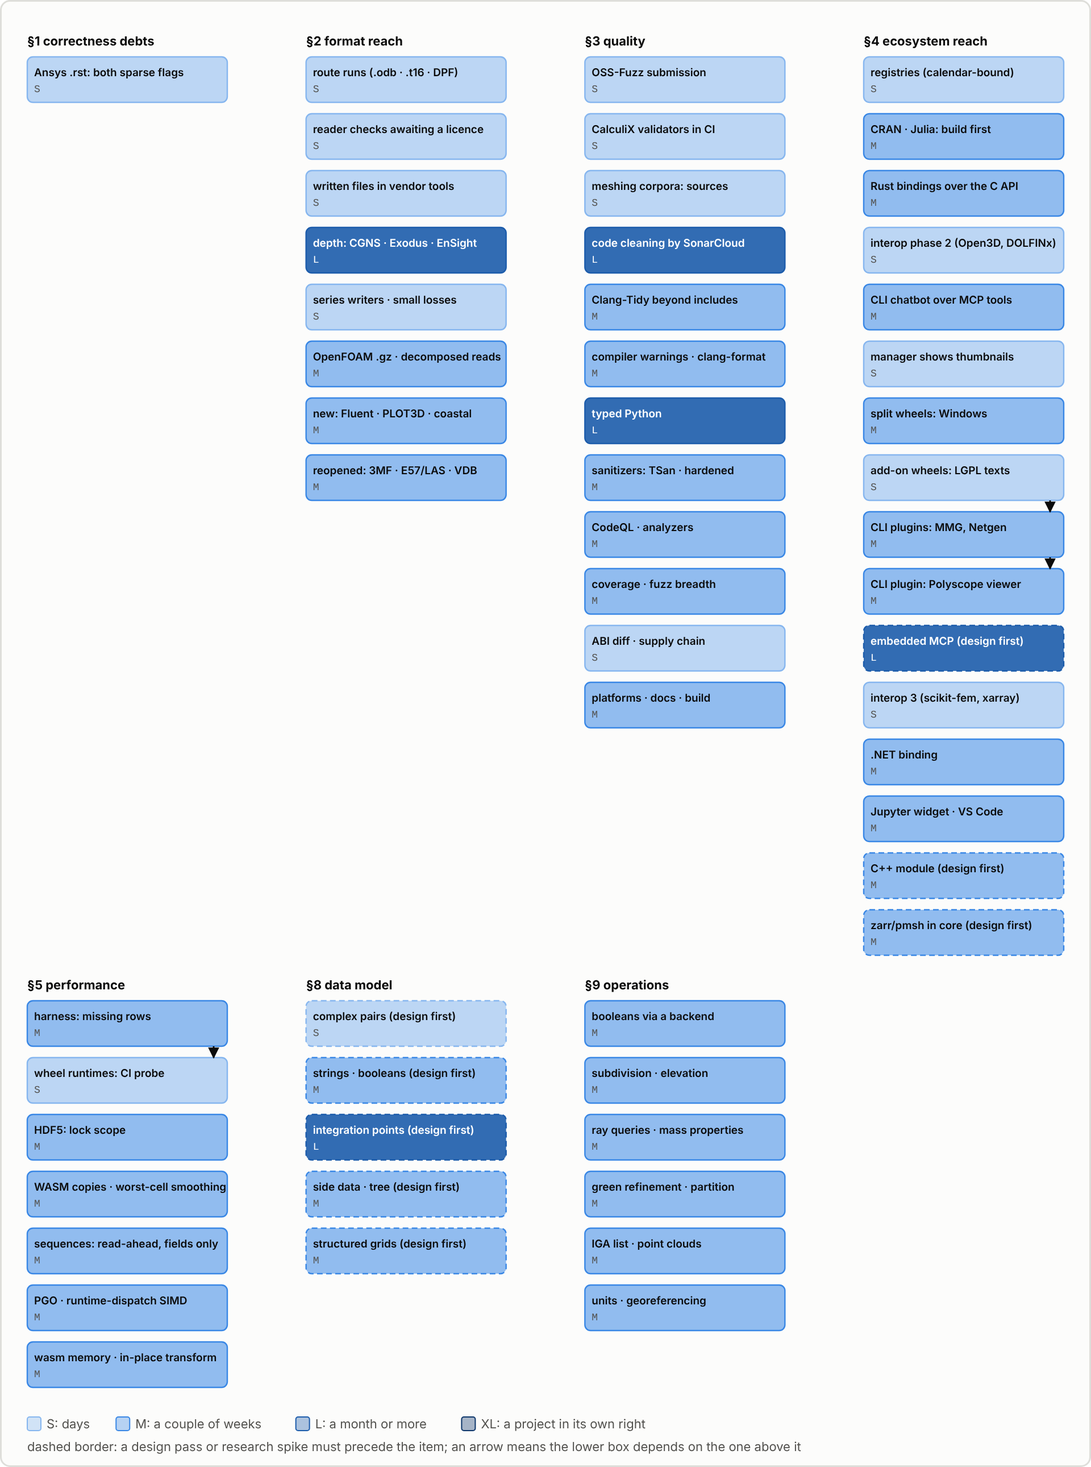
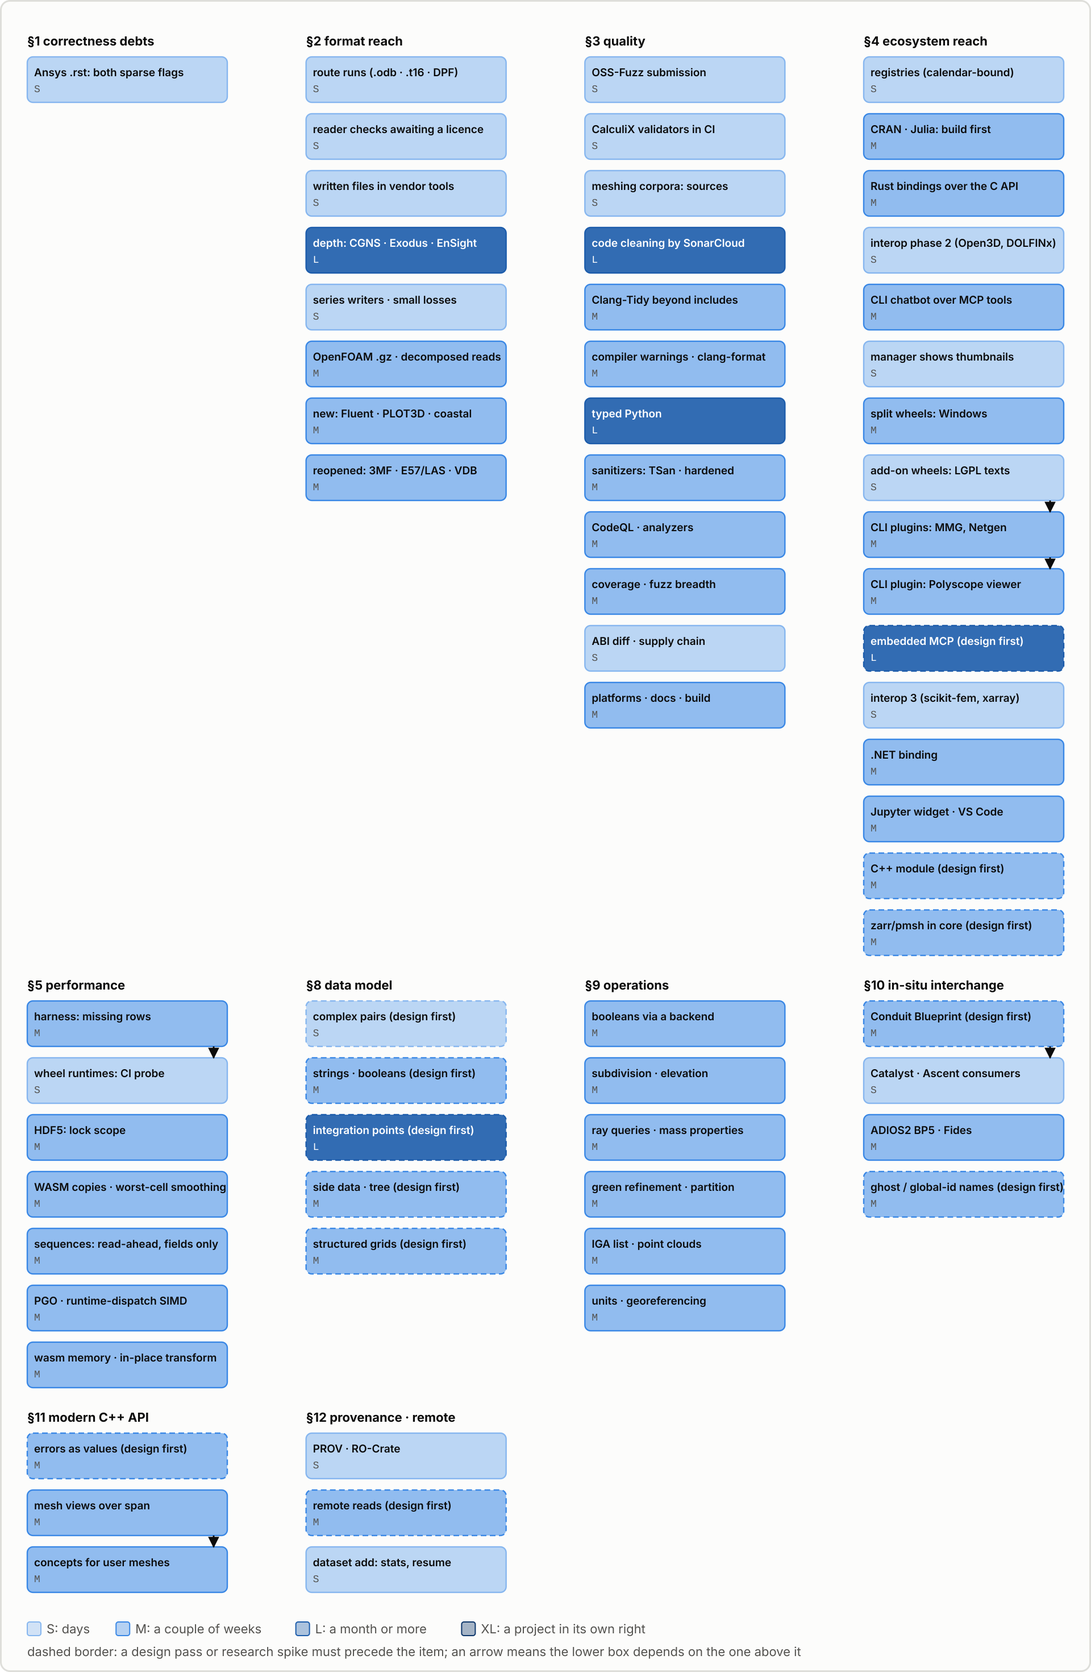
roadmap: append in-situ, modern C++ API and provenance tiers (10-12), items 3.18-3.19
From a proposed revision, reduced to what the tree and the file do not
already have; the map is regenerated.

Claude-Session: https://claude.ai/code/session_01DnyVZC1z4s39zR3yhiaNMa

diff --git a/doc/diagrams/figures/flows.py b/doc/diagrams/figures/flows.py
@@ -1109,6 +1109,34 @@ def roadmap_map():
             ],
             [],
         ),
+        (
+            "§10 in-situ interchange",
+            [
+                ("Conduit Blueprint (design first)", "M"),
+                ("Catalyst · Ascent consumers", "S"),
+                ("ADIOS2 BP5 · Fides", "M"),
+                ("ghost / global-id names (design first)", "M"),
+            ],
+            [(0, 1)],
+        ),
+        (
+            "§11 modern C++ API",
+            [
+                ("errors as values (design first)", "M"),
+                ("mesh views over span", "M"),
+                ("concepts for user meshes", "M"),
+            ],
+            [(1, 2)],
+        ),
+        (
+            "§12 provenance · remote",
+            [
+                ("PROV · RO-Crate", "S"),
+                ("remote reads (design first)", "M"),
+                ("dataset add: stats, resume", "S"),
+            ],
+            [],
+        ),
     ]
     per_row = 4
     col_w = 176

diff --git a/doc/roadmap.md b/doc/roadmap.md
@@ -15,6 +15,8 @@ Effort key: **S** = days, **M** = a couple of weeks, **L** = a month or more, **
 - **An item estimated from a doc, a `.d.ts` or a changelog alone says so** ("verify first") and names its probe; the code has repeatedly been more or less capable than its description.
 - **[Non-goals](#non-goals-and-decisions-taken) record decisions already taken**, with their reasons, so they are not re-proposed as gaps.
 - **Every open item is written to be picked up without a planning pass** (November 2026). It states what exists today with the place in the code that proves the gap, what to reuse, ordered steps numbered so one can be closed alone, tests and fixtures, and a *done when* probe; a design-pass item lists the decisions to take and the option the code favours. Line numbers are those of `master` in November 2026 and drift: each is given beside a function, option or message name, which is what to search for. A claim an item could not check in the code says *verify first*.
+- **A priority is optional and only for sections that need to be ordered against each other** (§10 to §12 do not use one; their order is the sequencing's). Where an item carries one: **P0** blocks correctness or a release, **P1** the next release, **P2** planned, **P3** opportunistic or a spike. It never replaces the effort letter.
+- **GPL and AGPL implementations (Gmsh's sources, ScanRuler) inform an item only through their documented behaviour**; no code is read from them or ported ([non-goals](#non-goals-and-decisions-taken)).
 
 ### Landing checklists {#landing-checklists}
 
@@ -580,6 +582,24 @@ Publishing already uses OIDC for PyPI and (with a token fallback, `wasm.yml` lin
 - **3.17.3 Compile time.** `-ftime-trace` with ClangBuildAnalyzer on a full build; report the ten slowest translation units (`src/cpp/cli/main.cpp`, `bindings/python/_core.cpp` at 10,482 lines, `bindings/c/c_api.cpp`, `bindings/wasm/js_bindings.cpp` at 11,083 lines) and headers in [benchmarks](./benchmarks.md). Then, by what it shows: split `_core.cpp` and `js_bindings.cpp` by area into several sources (they are globbed, so no CMake change), precompiled headers for `meshioplusplus_tests`, and a `CMAKE_UNITY_BUILD=ON` leg as a check that the amalgamation's unique-name rule holds for the sources too. **M**
 - **3.17.4 Hardening the released binaries.** For `cli.yml` and `wheels.yml` builds only, through a `MESHIOPLUSPLUS_HARDENING` option applied `PRIVATE`: `-D_FORTIFY_SOURCE=3`, `-fstack-protector-strong`, `-Wl,-z,relro,-z,now`, `-fcf-protection=full` (x86-64) or `-mbranch-protection=standard` (arm64), `/guard:cf` and `/Qspectre` on MSVC. Measure on the [instruction-count gate](./benchmarks.md#instruction-count-gate) first and record the cost. **S–M**
 
+### 3.18 Compatibility with upstream meshio's own tests
+
+*Verify first.* Nothing in `tests/python` runs upstream meshio's suite against meshio++, so the claim of being a drop-in for `import meshio` rests on meshio++'s own tests. **S–M**
+
+- **Steps.**
+  - **3.18.1 A shim run.** A scheduled job in `ci.yml` (weekly, advisory): install the last upstream `meshio` sdist's `tests/` into a scratch directory, alias `import meshio` to `meshioplusplus` through a `conftest.py` that sets `sys.modules["meshio"]`, run it, and write the failures to a committed `tests/python/upstream_meshio_known.txt`.
+  - **3.18.2 Classify each failure** as a bug here (fix it, or add it to §1 if it loses data), a documented divergence (a line on the format page and in the [README](https://github.com/loumalouomega/meshioplusplus/blob/main/README.md)'s comparison), or an upstream defect.
+- **Done when.** The job passes with the known-failures file as its only allowance, and every entry in it cites a page.
+
+### 3.19 Index and identifier widths
+
+*Verify first.* The VTU `UInt64` header type is tested (`tests/python/meshes/vtu/01_raw_binary_int64.vtu`), but no test builds a mesh with a node or cell tag above 2³¹ and writes it to every format that can hold one. **S–M**
+
+- **Steps.**
+  - **3.19.1 An audit.** Build with `-Wshorten-64-to-32` on Clang (an advisory leg, as 3.6.2) and list the narrowing conversions on index, count and tag paths of `src/cpp/src/formats/`; each is fixed, or a check that throws `ReadError`/`WriteError` naming the format and the value.
+  - **3.19.2 A table of widths** in [formats](./formats.md): for each format, the widest node and cell id it stores (MSH 4.1's sizes, Exodus' `int64` mode, CGNS' `cgsize_t`, VTKHDF, VTU's header types), generated from a test that writes an id above 2³¹ to each and records the outcome as the conformance matrix does.
+- **Done when.** A mesh with a tag of 2³¹ + 5 either round-trips or fails with the format's name, for every registered writer.
+
 ---
 
 ## 4. Ecosystem reach {#ecosystem-reach}
@@ -1014,6 +1034,92 @@ Only if 2.4.3 or 2.4.6 lands, since nothing read today is georeferenced. `field_
 
 ---
 
+## 10. In-situ and coupling interchange {#in-situ-interchange}
+
+*Admission: a data description a simulation or a coupling library hands over in memory, which meshio++ can convert to and from without reading a file. Added in November 2026 from a proposed revision of this file; every item here was checked against the tree for a prior implementation (none found) and is marked **verify first** for the library's own current API. MPI inside the library stays a [non-goal](#non-goals-and-decisions-taken): these adapters take the data a rank holds, as [`partition`](./partition.md)'s ghost layers already do.*
+
+### 10.1 A Conduit Mesh Blueprint adapter {#conduit-blueprint}
+
+Conduit's Mesh Blueprint† is the description Catalyst 2 and Ascent receive and ParaView's Catalyst implementation reads a subset of; a simulation that already holds a `conduit::Node` could reach every meshio++ writer through it. **M, design pass first**
+
+- **State today.** No file or document names Conduit, Blueprint, Catalyst or Ascent. The in-memory interop layer is Python ([interop](./interop.md)); the core's uniform API is `mesh_api.hpp`.
+- **Decisions to take first.** (1) Where it lives: an optional, dynamically linked provider (the registry of `providers.hpp`, as OpenCASCADE and Netgen are), so the base wheel gains no dependency, or a Python-only `to_conduit`/`from_conduit` over `conduit`'s own Python module (days, and the first step). (2) Which topologies map: `unstructured` with `shape` `point`/`line`/`tri`/`quad`/`tet`/`hex`/`wedge`/`pyramid`/`polygonal`/`polyhedral`, `uniform`, `rectilinear` and `structured` expanded as 8.6 describes. (3) Fields: `vertex` and `element` association to point and cell data; `material_map` and `adjsets` stay unread.
+- **Steps.** 10.1.1 The Python bridge by [checklist F](#landing-checklists)'s step 4 pattern, as 4.3 does for Open3D: `to_conduit(mesh)` and `from_conduit(node)`, `_NOT_TOOLS` entries in the MCP parity guard, a gated test that calls `conduit.blueprint.mesh.verify`. 10.1.2 A native provider only if 10.1.1 shows a consumer that cannot use Python.
+- **Done when.** `conduit.blueprint.mesh.verify(node, info)` passes for a node built from every cell type of the registry's canonical mesh, and a round trip is exact. Sources: Conduit's Blueprint documentation†; no code is copied.
+
+### 10.2 Catalyst and Ascent as consumers {#catalyst-ascent}
+
+After 10.1. A Catalyst 2 pipeline script or an Ascent action receives a Blueprint node: meshio++ is a Python step in it that writes any registry format or applies a [pipeline](./pipeline.md). **S–M**
+
+- **Steps.** A `contrib/catalyst/` script in the shape of `contrib/ansys_dpf/` (a documented route, tested against a stand-in of the Conduit API as `tests/python/test_contrib_routes.py` does, and run once for real: record it under [recording a run](#awaiting-a-licensed-run)); a page in [vendor routes](./vendor_routes.md).
+- **Done when.** A ParaView Catalyst example's output channel is written as a `.vtkhdf` series and read back by [`read_sequence`](./sequences.md).
+
+### 10.3 ADIOS2 BP5 and Fides {#adios2-fides}
+
+*Verify first.* [`vtx`](./formats/vtx.md) reads DOLFINx's ADIOS2 `.bp`; whether it also reads the Fides schema that ParaView and VTK-m use, and whether a writer of either exists, is stated on that page and not checked here. **M**
+
+- **Steps.** Read the page; if only DOLFINx's VTX schema is covered, add Fides as a second schema in the same format (`schema=` read and write option) with the same `ADIOS2` build gate; test against ParaView's `ADIOS2VTXReader` and `vtkmFides`† as `tools/gen_vtx_reference.py` already drives the first.
+
+### 10.4 Ghost, owner and global-id conventions {#ghost-conventions}
+
+*Design pass.* `partition` writes halo layers and `pvtu` reads and writes them, Elmer and MFEM carry global ids, and the Nemesis item (2.3.8.2) will carry two more maps. Name the arrays once: `partition:ghost`, `partition:owner`, `global:node_id`, `global:cell_id`, and the rule for which operations preserve them. **M**
+
+- **Steps.** A page `doc/ghosts.md` (a decision record; link it from [partition](./partition.md) and [regions](./regions.md)); the readers and writers that already hold the data moved onto the names in the same change, with digests unchanged (`tools/bench_ops.sh --hash`); 2.3.8.1's helper takes them as its inputs.
+- **Done when.** A partition written by `partition`, read by `read_pvtu` and merged by 2.3.8.1 returns the serial mesh sorted by `global:cell_id`.
+
+## 11. A modern C++ API surface {#modern-cpp-api}
+
+*Admission: the installable C++ API ([C++ API](./cpp_api.md)) as a library user meets it, as opposed to its formats or operations. Each item here changes an installed header, so each is a pure addition or an [ABI](./abi.md) bump named in its steps. Link 4.14 (the module) and 3.13 (the ABI diff) rather than repeating them.*
+
+### 11.1 Errors as values {#errors-as-values}
+
+Every reader throws `ReadError` (`exceptions.hpp`) and the C API turns it into a status; a C++ caller who wants to branch on "this file is not this format" pays for an exception per probe. **M, design pass first**
+
+- **Decisions to take first.** (1) The type: `std::expected<Mesh, Error>` where the compiler's library has it (C++23) and a small header-only twin otherwise, against a `Result<T>` of the project's own that needs no feature test. (2) `Error` carries the format name, the byte offset or line where the reader knows one (it mostly does not: say so on the page and fill it where `detail/parse_guard.hpp` and the line readers do) and the C API's status code, one to one. (3) Whether `try_read`/`try_write` are new entry points beside the throwing ones (a pure addition, recommended) or replace them (an ABI bump).
+- **Steps.** `try_read`, `try_read_as`, `try_write` and `try_sniff` as thin wrappers over the registry (`registry_read` and the `catch` converting `ReadError`, `WriteError`, `Unsupported`); a test that every registered reader's refusal of a junk file arrives as an `Error` naming its format; an ABI review row.
+- **Done when.** `try_read` on 64 random bytes returns an `Error` for each registered format with no exception escaping, under ASan and UBSan.
+
+### 11.2 Views, not copies {#mesh-views}
+
+*Verify first* how the uniform API hands back arrays today (`mesh_api.hpp`, `ndarray.hpp`): a caller who wants the points of a mesh to feed a solver copies them or reaches for a backend member. **M**
+
+- **Steps.** A non-owning `MeshView` (points as `std::span<const double>` with stride 3, one `CellBlockView` per block with its `CellType` and a two-dimensional view of the connectivity as `std::mdspan` where available and a hand-written `Strided2D` otherwise), built from any backend through `AssignPoints`' read-side twin and `CellView`; lifetime rules as the C API's borrowed getters (valid until the mesh is mutated); the single header carries it.
+- **Reuse.** The C API's getters already borrow; the WASM and Python bindings already expose the same buffers (`np_conversions.hpp`): the view is their native shape.
+- **Done when.** A solver-shaped loop (a `std::span` pass over `points` and `cells`) runs with no copy and no backend member, on MESHIO, NATIVE and KRATOS.
+
+### 11.3 Concepts for user meshes {#mesh-concepts}
+
+After 11.2. A `MeshLike` concept (what `registry_write` needs from a type) so an application's own mesh class can be written without being converted first. **M**
+
+- **Steps.** `template <MeshLike M> void write(const std::string&, const M&)` building a `MeshView`, so no format code changes; a test with a deliberately minimal user type; the page records which backends satisfy it.
+
+## 12. Provenance, remote data and dataset interop {#provenance-remote}
+
+*Admission: where a mesh and its data come from and where they are kept, beyond the formats themselves. Added in November 2026 from the same proposed revision; the parts that already exist (fsspec URLs in Python, dataset manifests, the PyG `Dataset`, ghost layers, Zarr v3 in Python) are not re-listed.*
+
+### 12.1 Provenance as W3C PROV and RO-Crate {#prov-rocrate}
+
+[Provenance](./provenance.md) records what produced a mesh in its own schema. A reviewer or a data repository wants the standard ones. **S**
+
+- **Steps.** `provenance_to_prov(mesh)` (PROV-JSON†: an entity per input file with its digest, an activity per recorded operation with its options, the software agent with the version) and `write_ro_crate(directory, mesh, outputs)` (`ro-crate-metadata.json`† listing the files with their formats); both Python-only, MCP exemptions recorded in `_NOT_TOOLS` unless they are expressible through file paths (the crate writer is: add it as a tool).
+- **Done when.** The PROV document validates against PROV-JSON's schema†, and the crate against `rocrate-validator`†.
+
+### 12.2 Remote reads beyond Python {#remote-reads}
+
+*Verify first.* [Formats](./formats.md#remote-files) reads URLs through the optional `fsspec` in Python only; the native CLI and WASM do not (the [CLI page](./cli.md) says so). **M, design pass first**
+
+- **Decisions to take first.** Whether the native CLI gains an HTTP(S) range reader with a vendored client (a dependency and a supply-chain item for 3.14.6's SBOM), or stays Python-only by decision and the page says why; for HDF5 formats, the ROS3 virtual file driver† where the bundled HDF5 is built with it.
+- **Done when.** The decision is a line under [non-goals](#non-goals-and-decisions-taken) or the item is split into steps.
+
+### 12.3 Statistics and resumption for `dataset add` {#dataset-build}
+
+[`meshioplusplus dataset add`](./datasets.md) registers files by glob into a manifest. *Verify first* whether an entry records per-file statistics (cells, bounds, field ranges) and whether re-running skips files already registered. **S**
+
+- **Steps.** A `--stats` option on `add` filling each entry from `read_metadata` (no full read; `_cli/_dataset.py`), and `--resume`, which skips an entry whose file digest is already in the manifest.
+- **Done when.** Interrupting and re-running a 100-file `add --resume` reads no file twice.
+
+---
+
 ## Non-goals and decisions taken
 
 Recorded so they are not re-proposed as gaps. A decision is reopened when what it rested on has changed, and then it is narrowed here, with the date and the number of the item that took it up; the November 2026 review read each against what has shipped since. It reopened five (surface booleans through a backend, 9.1; decomposed files read without MPI, 2.3.8; the `zarr` and `pmsh` stores in the core, 4.15; an in-place `transform`, 5.14; vector kernels behind runtime dispatch, 5.15) and four formats of *Considered, not queued* (2.4.5 to 2.4.8), and left the rest as they stand: the reasons recorded for the native constrained tetrahedralisation, NURBS as an entity kind in `Mesh`, Kokkos device execution, link-time optimisation by default (though a profile was never tried: 5.12), solver-coupled learning, contact mechanics, the copyleft codes and the CAD modeller have not moved.
@@ -1034,7 +1140,7 @@ Recorded so they are not re-proposed as gaps. A decision is reopened when what i
   - **`szplt`** does not write polygon and polyhedral zones: TecIO 2018.3, the newest source available, refuses them in an SZL file, so the reader refuses them by name too and the face-based zones stay with the `.plt` and ASCII readers. Partitioned output is for tetrahedron and brick zones of a static file only (TecIO's own limit), and a series is written whole.
   - **`vtx`**: DOLFINx and ParaView read one cell type per file, so a file of several cell types or parts is meshio++'s own extension of the layout.
 - **Generators the primitives leave out** — recorded when roadmap §3.1 closed (October 2026), with the [parametric primitives](./primitives.md#not-generated): generators driven by a user callback (no callback crosses the flat ABI; numpy users build `Mesh(points, cells)` directly, and [`isosurface`](./isosurface.md) on a `grid` covers implicit shapes); scanned or modelled assets (the bunny, the teapot, the bracket fixture — data rather than parameters, each under its own licence); and CSG combinations, under the volume-meshing non-goal below (surface booleans were reopened as a spike and kept out on its measurements, [findings](./spikes.md#surface-booleans-formerly-roadmap-7-8)) — two-body interface and contact fixtures are primitives placed with `transform` and joined with `merge`.
-- **MPI in the library** — none planned ([C++ API](./cpp_api.md)); `partition`'s ghost layers produce the halo an MPI assembly in the owning application needs. ParMmg, MMG's MPI layer, is excluded with it. Narrowed in November 2026: reading the files a parallel run left, one per rank, into one mesh needs no MPI, as the OpenFOAM and `pvtu` readers show, and is queued for the formats that lack it as 2.3.8.
+- **MPI in the library** — none planned ([C++ API](./cpp_api.md)); `partition`'s ghost layers produce the halo an MPI assembly in the owning application needs. ParMmg, MMG's MPI layer, is excluded with it. Narrowed in November 2026: reading the files a parallel run left, one per rank, into one mesh needs no MPI, as the OpenFOAM and `pvtu` readers show, and is queued for the formats that lack it as 2.3.8. Added November 2026: this also excludes MPI-parallel writers (parallel HDF5, collective `cgp_*`) from [§10](#in-situ-interchange), whose adapters take the data a rank holds and never talk to a communicator; reopen only with an application that needs a shared file and cannot gather.
 - **Solver-coupled physics-ML** — assembled solver residuals, adjoints and Sobolev training, co-simulation, active-learning *labeling*, adaptive remeshing driven by a surrogate, and MPI model-part gathering. Every one needs a live solver (an assembly routine, its tangent, its communicator) and meshio++ has no notion of a discrete system; they belong in the application that owns the solver, the division [Symbolic and physics](physicsnemo/symbolic_and_physics.md) describes.
 - **The Python-only layers stay Python** — `pmsh`, `zarr`, `cae` and `usd`, and the physics-ML surface (grids, point budgets, proximity graphs, datasets, training) are export targets and tooling for a training pipeline, registered in Python rather than the shared C++ registry. A core kernel they call (the neighbour search) does not change that; `tessellate` moved to the core ([tessellation](./tessellation.md)) because the native CLI and the flat bindings needed it, and its `Tessellation` helpers stay Python. Narrowed in November 2026 for the two stores a dataset is written to: reading `zarr` and `pmsh` in the core, so the browser, the flat bindings and the native CLI open what Python wrote, is queued as 4.15 behind a design pass; `usd`, `cae` and the physics-ML surface stay as decided.
 - **Polyscope in the release CLI executables** — excluded deliberately, so `view`/`screenshot` there report the build flag rather than opening a window ([viewer](./viewer.md)): the executable stays free of OpenGL, GLFW and X11. Narrowed in November 2026, once v18.0.0's plugins made it possible: a Polyscope plugin loaded beside the executable is queued as 4.8.2.
@@ -1097,3 +1203,4 @@ Open work only; what shipped is in `CHANGELOG.md`.
 10. **SonarCloud findings ([§7](#sonarcloud-findings))** — the next scan's counts first (7.1), then the coverage gate (7.2); the viewer's rebuild check (7.3) with the next WebAssembly build.
 11. **Operations ([§9](#operations))** — the boolean backend's measurement first (9.1.1, 9.1.2), since it decides a non-goal and two parked features; then the small ones a user notices missing (mass properties 9.4, ray casting and point location 9.3, point-cloud conditioning 9.9, the IGA list 9.8), then subdivision and elevation (9.2, 9.5), the partitioner providers (9.7) and repeated green refinement (9.6.1). Only 9.10.2 and 9.6.2 wait on a decision.
 12. **Data model ([§8](#data-model))** — design passes only until one says otherwise. The two whose recommended form is a convention and days of work, and which close losses already listed on format pages: complex pairs (8.1) and the structured annotation (8.6). Strings (8.2) before hierarchy (8.5), which uses them. Integration-point data (8.3) is the largest and the one most formats wait on (2.3.6.1, MED ELGA, the result readers); side data (8.4) unblocks 2.3.1.4 and 2.3.2.3. The format items that wait on each say so.
+13. **In-situ interchange, the modern C++ surface and provenance ([§10](#in-situ-interchange) to [§12](#provenance-remote))** — after everything above, in this order by dependency: the Conduit bridge (10.1) in Python first, since it needs no core change, and the ghost conventions (10.4) with 2.3.8.1, which wants the same names; errors as values and views (11.1, 11.2) together in one ABI change, then the concepts on top (11.3); PROV and RO-Crate (12.1), the `dataset add` statistics (12.3) and the remote-read decision (12.2) are small and independent. The upstream-meshio run (3.18) and the identifier-width audit (3.19) belong with the tooling of item 4. §10 to §12 came from a proposed revision of this file in November 2026: what the revision listed that the tree or this file already had (supply chain, hardening, the ABI diff, the C++ module, Zarr and pmsh in the core, the dataset manifests, the PyG dataset, partition ghosts and the `pvtu` writer, node-order tables, fsspec URLs, the mutation-testing and engine-differential spikes) was not repeated.
